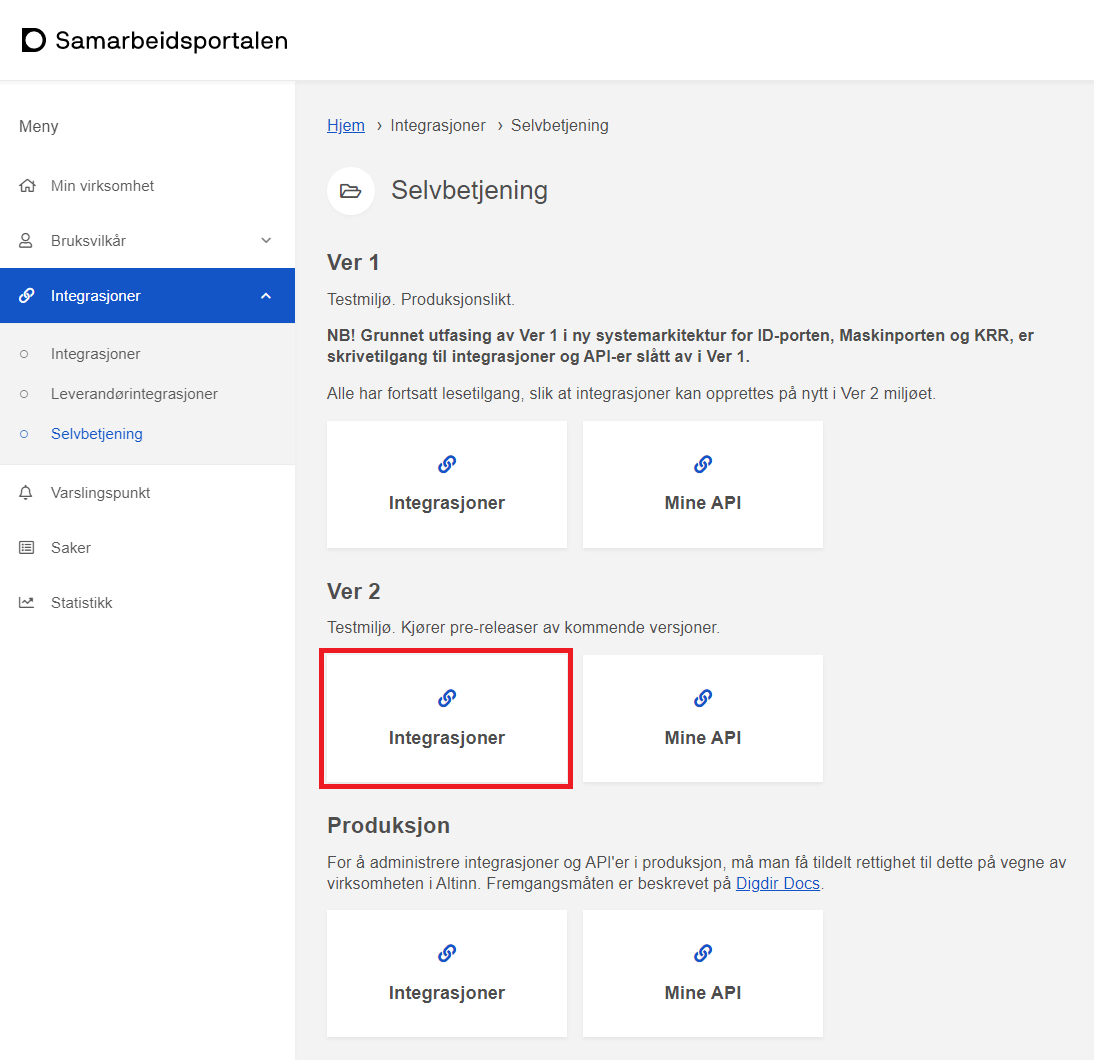
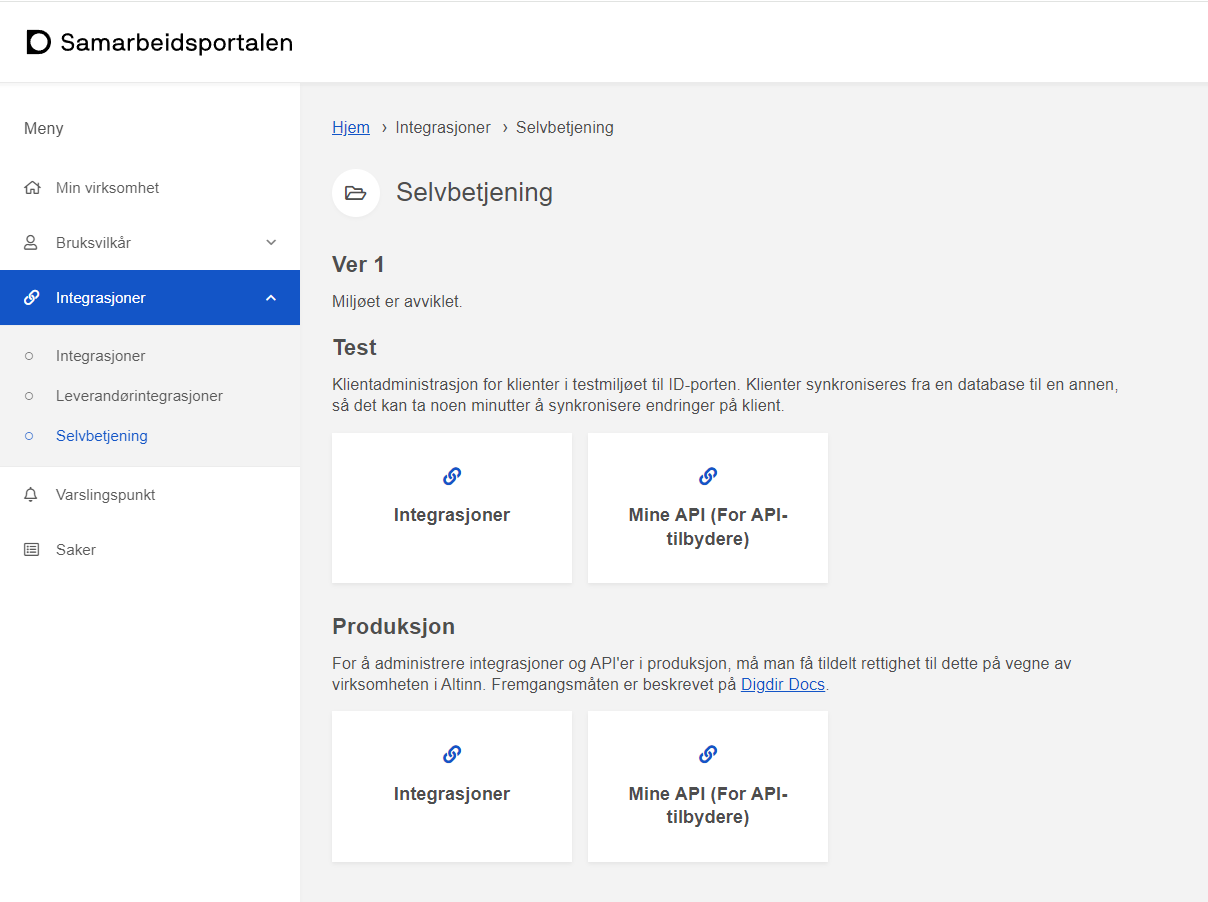
maskinporten x-ver2

diff --git a/api/maskinporten.html b/api/maskinporten.html
@@ -69,7 +69,7 @@
                         <li><p><a href="#lag-en-integrasjon">Integrasjon hos Digdir</a></p>
                             <ol>
                                 <li><p><a href="#integrasjon-selvbetjening">Selvbetjening</a></p></li>
-                                <li><p><a href="#integrasjon-i-ver2">Opprett i ver2</a></p></li>
+                                <li><p><a href="#integrasjon-i-ver2">Opprett i test</a></p></li>
                                 <li><p><a href="#integrasjon-i-prod">Opprett i prod</a></p></li>
                                 <li><p><a href="#ny-integrasjon">Ny integrasjon</a></p></li>
                             </ol></li>
@@ -217,9 +217,9 @@
             For å administrere integrasjoner for produksjon: Velg "Integrasjoner" under <i>overskriften "Produksjon"</i>
         </p>
 
-        <h4 id="integrasjon-i-ver2">4.2 Opprett en integrasjon i Ver2-miljøet hos Digdir</h4>
+        <h4 id="integrasjon-i-ver2">4.2 Opprett en integrasjon i Test-miljøet hos Digdir</h4>
         <figure>
-            <img src="media/maskp-ver2.png" alt="Se figurtekst"/>
+            <img src="media/maskp-test.png" alt="Se figurtekst"/>
             <figcaption>Figur: Gå til integrasjoner</figcaption>
         </figure>
 

diff --git a/api/maskinporten-EN.html b/api/maskinporten-EN.html
@@ -69,7 +69,7 @@
                         <li><p><a href="#lag-en-integrasjon">Set up integration at Digdir</a></p>
                             <ol>
                                 <li><p><a href="#integrasjon-selvbetjening">Self-service</a></p></li>
-                                <li><p><a href="#integrasjon-i-ver2">Create in ver2</a></p></li>
+                                <li><p><a href="#integrasjon-i-ver2">Create in test</a></p></li>
                                 <li><p><a href="#integrasjon-i-prod">Create in prod</a></p></li>
                                 <li><p><a href="#ny-integrasjon">New integration</a></p></li>
                             </ol></li>
@@ -227,10 +227,9 @@
             Select "Integrations" under <i>the heading "Produksjon"</i>
         </p>
 
-        <h4 id="integrasjon-i-ver2">4.2 Create an integration in the
-        Ver2 environment at Digdir. </h4>
+        <h4 id="integrasjon-i-ver2">4.2 Create an integration in the Test environment at Digdir</h4>
         <figure>
-            <img src="media/maskp-ver2.png" alt="See caption"/>
+            <img src="media/maskp-test.png" alt="See caption"/>
             <figcaption>Figure: Go to integrations</figcaption>
         </figure>
 
